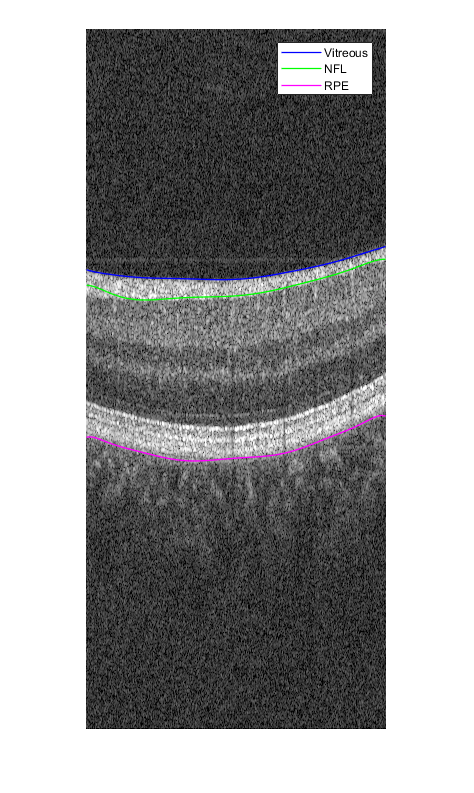
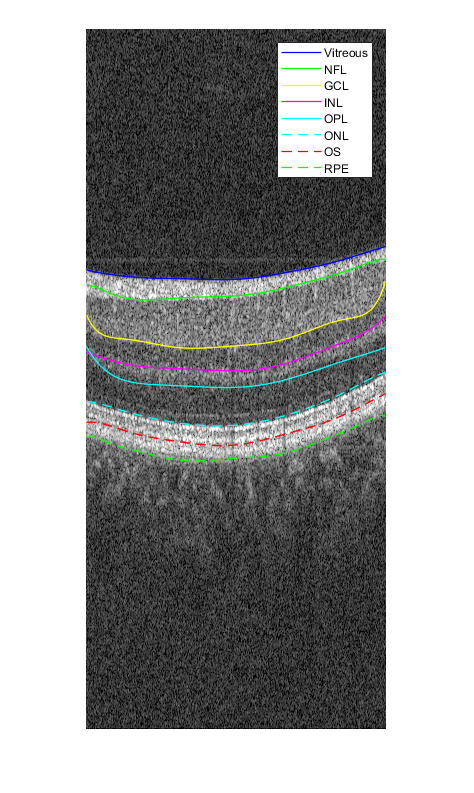
add inl
finish all functions & update README.md

diff --git a/README.md b/README.md
@@ -1,10 +1,10 @@
 # Retina-Image-Segmentation
 
-人眼视网膜由多层组织构成，利用给出的 OCT 视网膜断层图，运行该程序实现 Vitreous、NFL、RPE 三层的图像分割。
+人眼视网膜由多层组织构成，利用给出的 OCT 视网膜断层图，运行该程序实现 Vitreous、NFL、GCL、INL、OPL、ONL、OS、RPE 共八层的图像分割。
 
 ![](https://raw.githubusercontent.com/guanqr/Retina-Image-Segmentation/master/docs/oct-1.jpg)
 
-其中 `main.m` 程序为总程序，设置读取的图像所在地址，直接运行即可标注出 Vitreous、NFL、RPE 三层所在位置。其余三个程序为独立绘制程序，程序名对应其绘制的曲线。
+其中 `main.m` 程序为总程序，设置读取的图像所在地址，直接运行即可标注出每一层层所在位置。其余程序为独立绘制程序，程序名对应其绘制的曲线。
 
 整体效果如下图所示。
 
